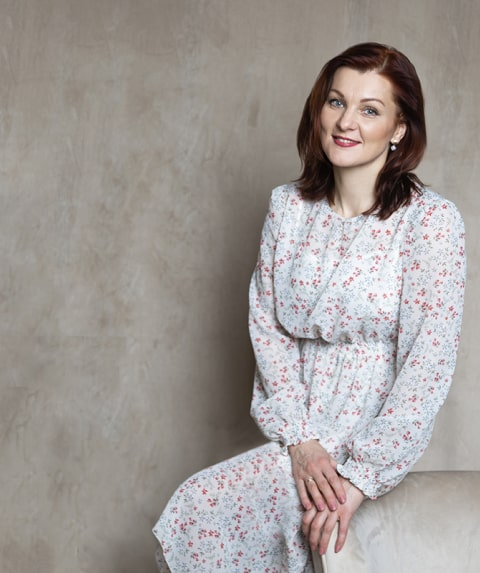
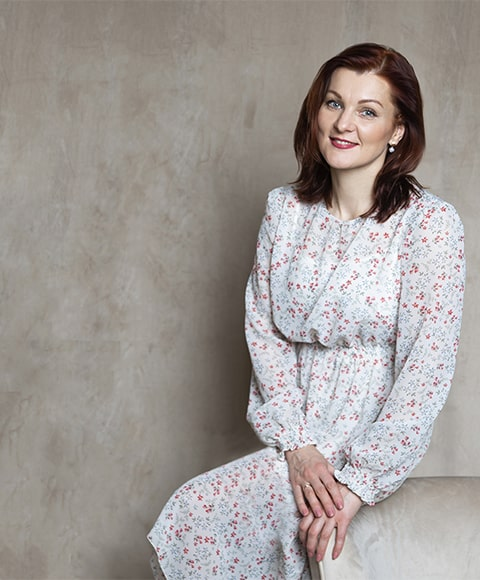
edit hero background on tablet and laptop

Changed region(s): [[0.3125, 0.089, 0.9688, 1.0], [0.75, 0.0593, 0.875, 0.1483], [0.7188, 0.0593, 0.75, 0.089]]

diff --git a/src/components/Hero/Hero.styled.js b/src/components/Hero/Hero.styled.js
@@ -24,10 +24,11 @@ export const Section = styled.div`
     width: auto;
     height: 480px;
     background-image: url(${background_tablet});
+    max-width: 900px;
   }
 
   @media ${device.laptop} {
-    width: 1100px;
+    max-width: 1100px;
     height: 100%;
     background-image: url(${background_laptop});
   }
